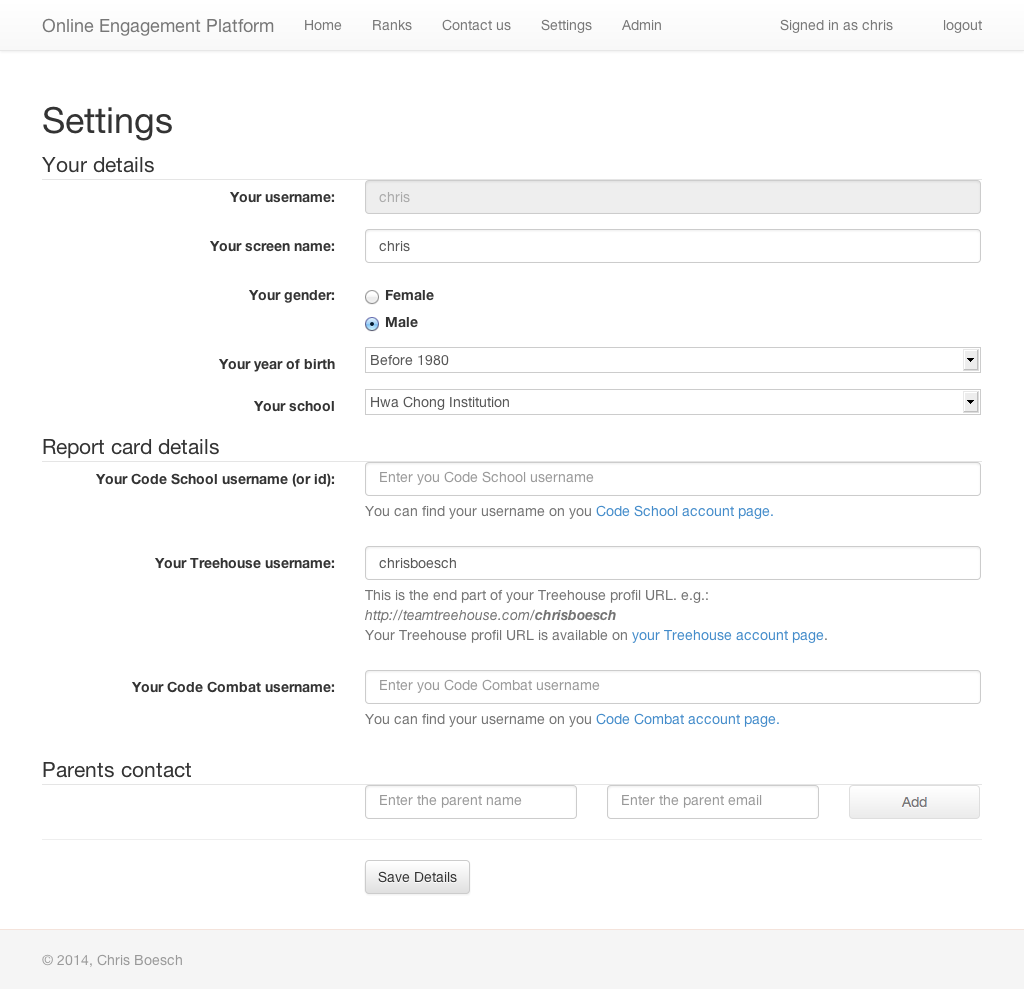
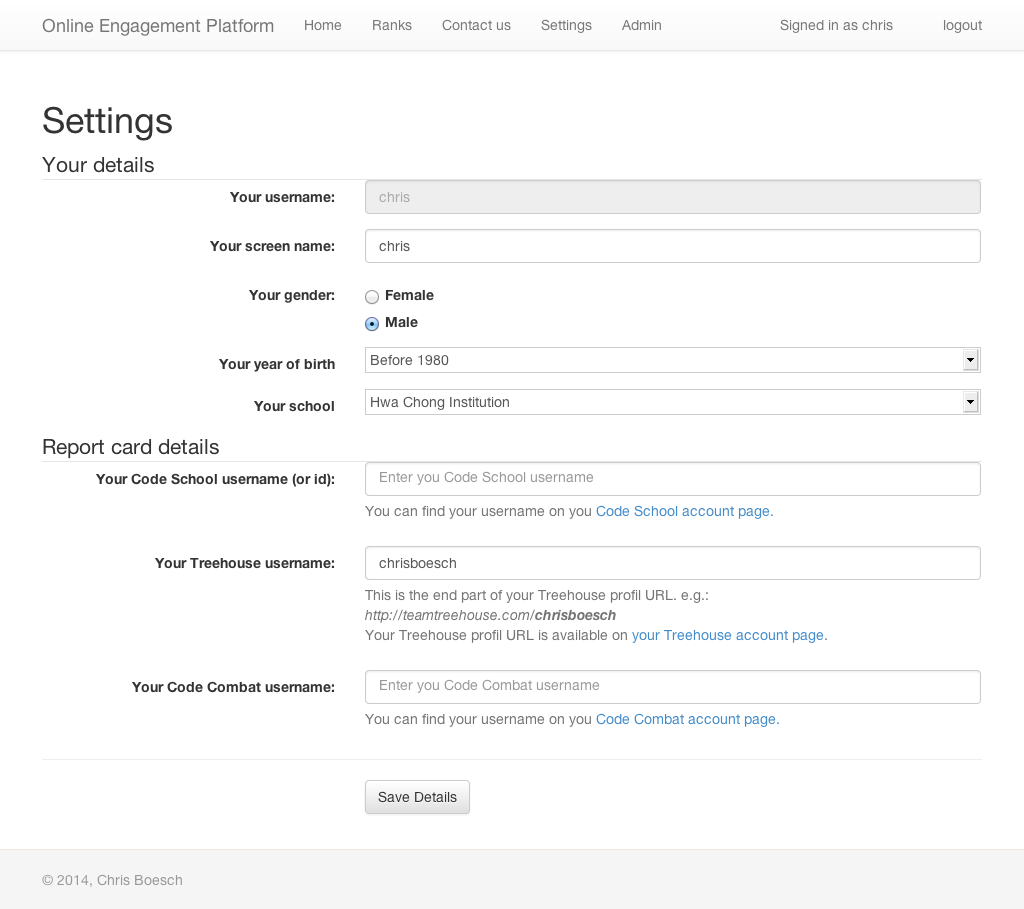
Remove parent form

diff --git a/app/userdetails/userdetails-edit.html b/app/userdetails/userdetails-edit.html
@@ -169,58 +169,6 @@
         </ng-form>
     </fieldset>
 
-    <fieldset ng-if="!ctrl.isNewUser">
-        <legend>Parents contact</legend>
-        <ul class="list-unstyled">
-            <li class="row" ng-repeat="parent in ctrl.user.info.parents">
-                <ng-form name="innerParentForm">
-                    <div class="col-sm-offset-4 col-sm-3" ng-class="{'has-error': innerParentForm.parentName.$invalid}">
-                        <input type="text" class="form-control parent-name"
-                            placeholder="Enter the parent name"
-                            ng-model="parent.name"
-                            required="true"
-                            name="parentName"
-                        />
-                    </div>
-                    <div class="col-sm-5" ng-class="{'has-error': innerParentForm.parentEmail.$invalid}">
-                        <input type="email" class="form-control parent-name"
-                            placeholder="Enter the parent email"
-                            ng-model="parent.email"
-                            required="true"
-                            name="parentEmail"
-                        />
-                    </div>
-                </ng-form>
-            </li>
-
-            <li class="row">
-                <ng-form name="newParentForm">
-                    <div class="col-sm-offset-4 col-sm-3" ng-class="{'has-error': newParentForm.parentName.$invalid}">
-                        <input type="text" class="form-control parent-name"
-                            placeholder="Enter the parent name"
-                            ng-model="ctrl.newParent.name"
-                            name="parentName"
-                        />
-                    </div>
-                    <div class="col-sm-3" ng-class="{'has-error': newParentForm.parentEmail.$invalid}">
-                        <input type="email" class="form-control parent-name"
-                            placeholder="Enter the parent email"
-                            ng-model="ctrl.newParent.email"
-                            name="parentEmail"
-                        />
-                    </div>
-                    <div class="col-sm-2">
-                        <button type="submit" class="btn btn-default form-control"
-                            ng-click="ctrl.addParent(ctrl.newParent)"
-                            ng-disabled="!ctrl.newParent.email || !ctrl.newParent.name"
-                        >
-                            Add
-                        </button>
-                    </div>
-                </ng-form>
-            </li>
-        </ul>
-    </fieldset>
     <hr/>
     <div class="form-group">
         <div class="col-sm-offset-4 col-sm-8">
